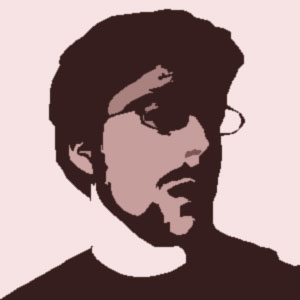
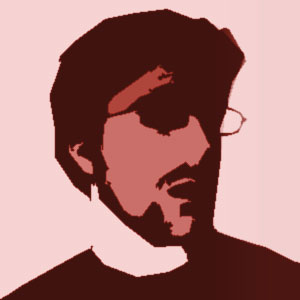
Add rising sun-style sun rays and update images/styles

diff --git a/index.html b/index.html
@@ -21,9 +21,11 @@
 			<div id="page">
 				<h1>My name is Matthew Riley MacPherson</h1>
 				
-				<div id="matt-photo-container" class="border box-shadow-blur block rounded">
-					<img src="matt-ridiculous-cutout.jpg" alt="A photo of Matthew Riley MacPherson, with a cutout photo filter." id="matt-photo">
-					<img src="matt-ridiculous.jpg" alt="The same photo of Matthew Riley MacPherson, without the cutout filter applied." id="matt-photo-hover">
+				<div id="rays">
+					<div id="matt-photo-container" class="border box-shadow-blur block rounded">
+						<img src="matt-ridiculous-cutout.jpg" alt="A photo of Matthew Riley MacPherson, with a cutout photo filter." id="matt-photo">
+						<img src="matt-ridiculous.jpg" alt="The same photo of Matthew Riley MacPherson, without the cutout filter applied." id="matt-photo-hover">
+					</div>
 				</div>
 				
 				<div id="content">

diff --git a/styles.css b/styles.css
@@ -64,7 +64,7 @@ a {
 }
 
 .border {
-	border: #ccc 1px solid;
+	border: #331a15 1px solid;
 }
 
 .box-shadow {
@@ -168,6 +168,12 @@ h3 {
 
 #content {
 	text-align: center;
+}
+
+#rays {
+	background: url(sun-rays.png) bottom center no-repeat;
+	margin: 0 auto;
+	width: 700px;
 }
 
 #matt-photo-container {
